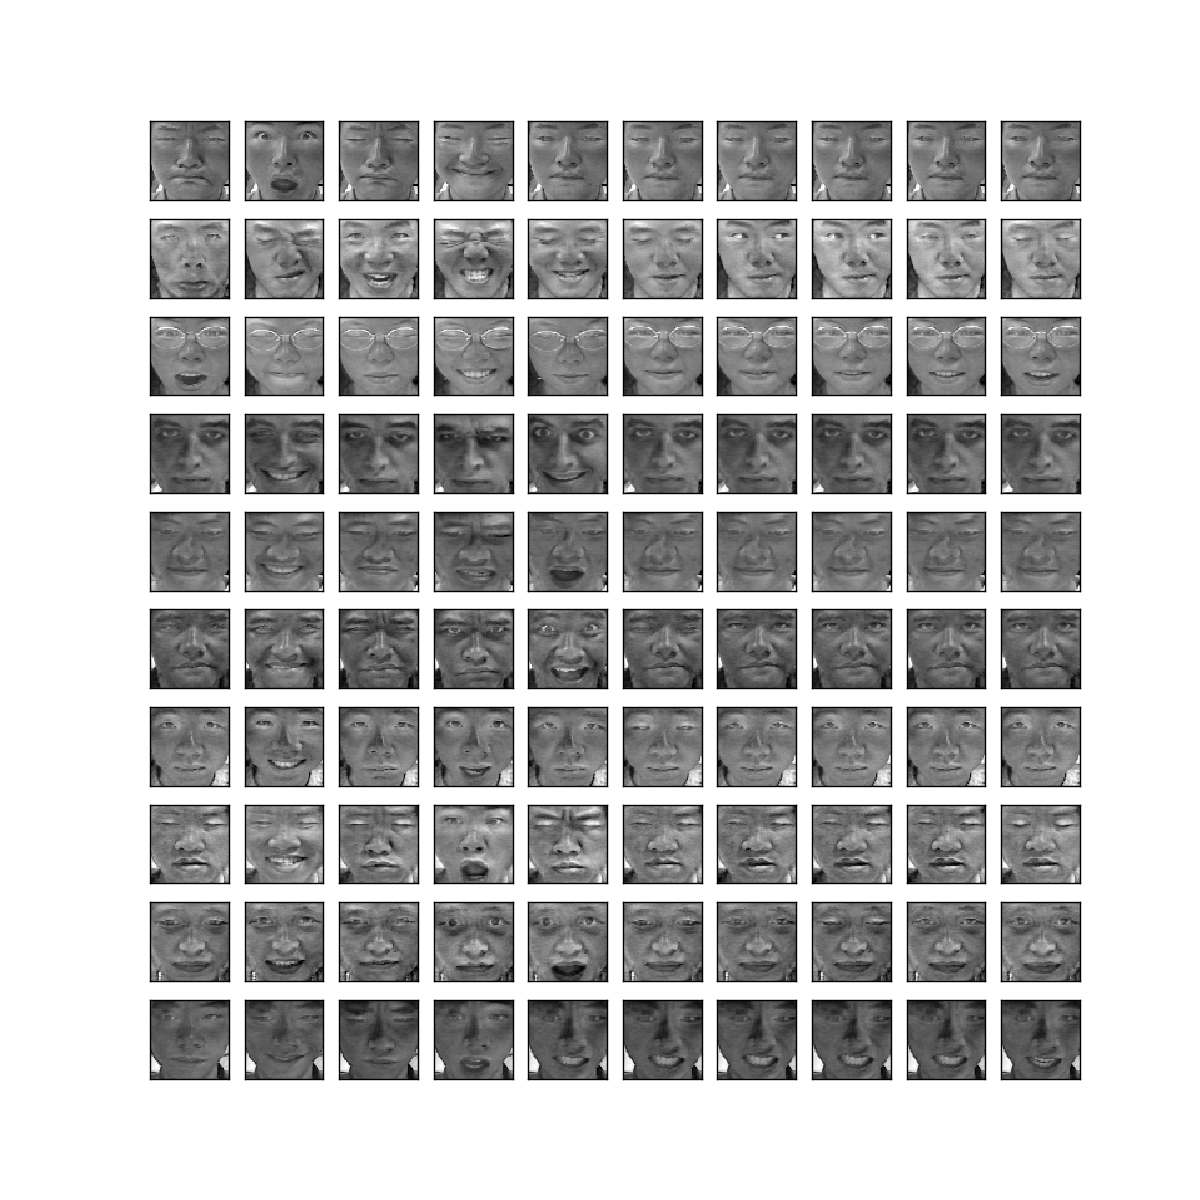
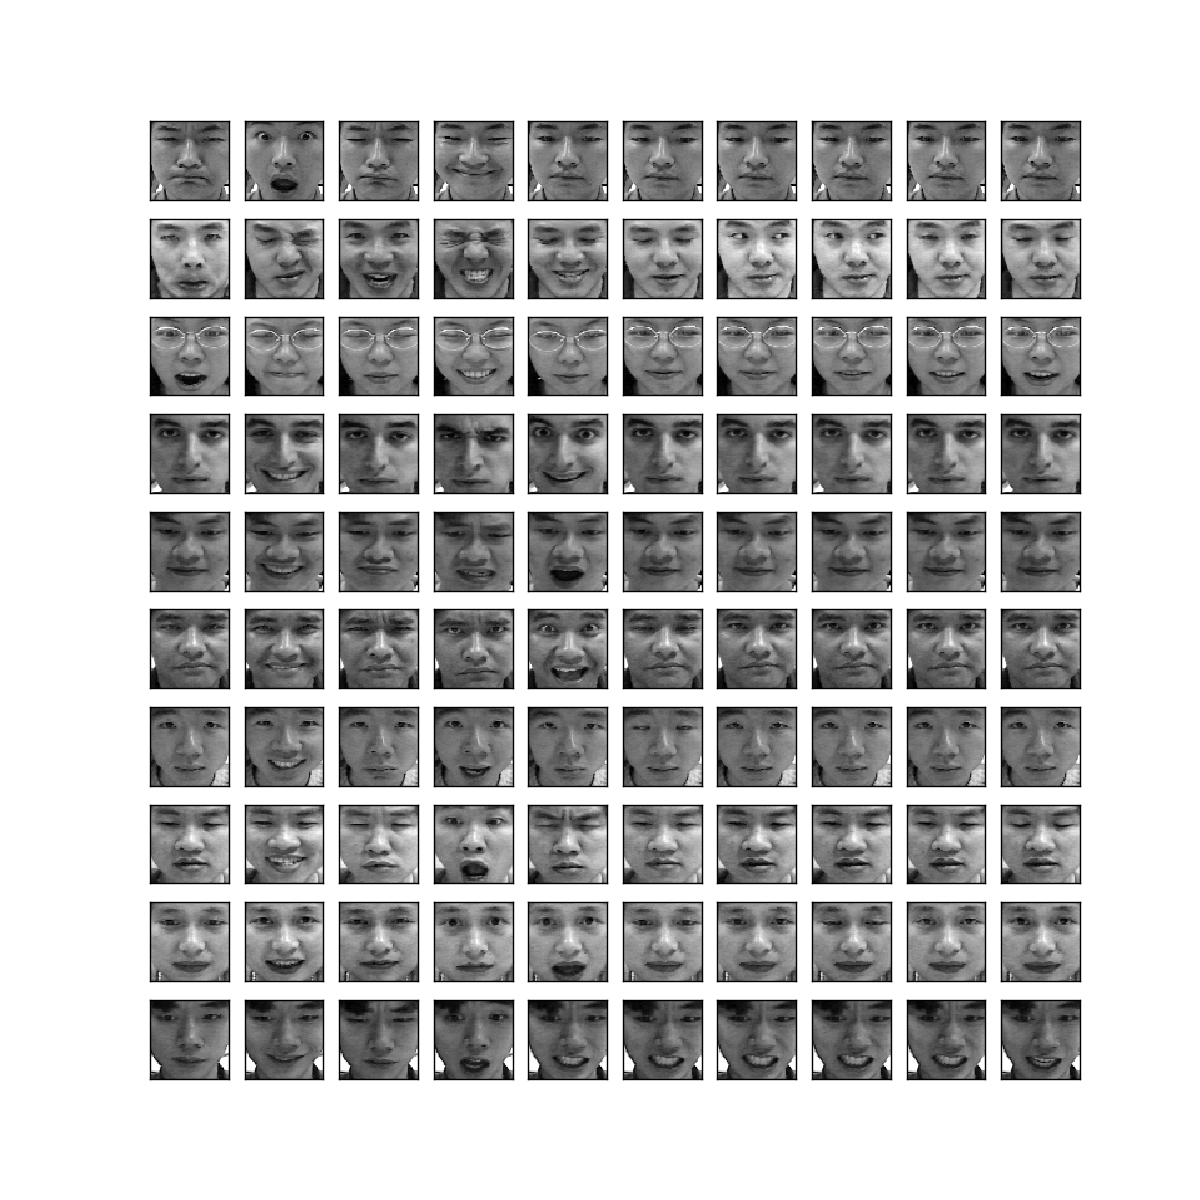
done

Changed region(s): [[0.1233, 0.0925, 0.925, 0.8942]]

diff --git a/hw4/prob1/question2.py b/hw4/prob1/question2.py
@@ -29,7 +29,7 @@ eigvec = eigvec[idx]
 fig = plt.figure(figsize=(12,12))
 for i in range(100):
     ax = fig.add_subplot(10,10,i+1)
-    ax.imshow((image_data[i]).reshape(64,64),cmap='gray',interpolation="nearest")
+    ax.imshow((image_data[i]+mean).reshape(64,64),cmap='gray',interpolation="nearest")
     plt.xticks(np.array([]))
     plt.yticks(np.array([]))
 fig.savefig("origin.png")
